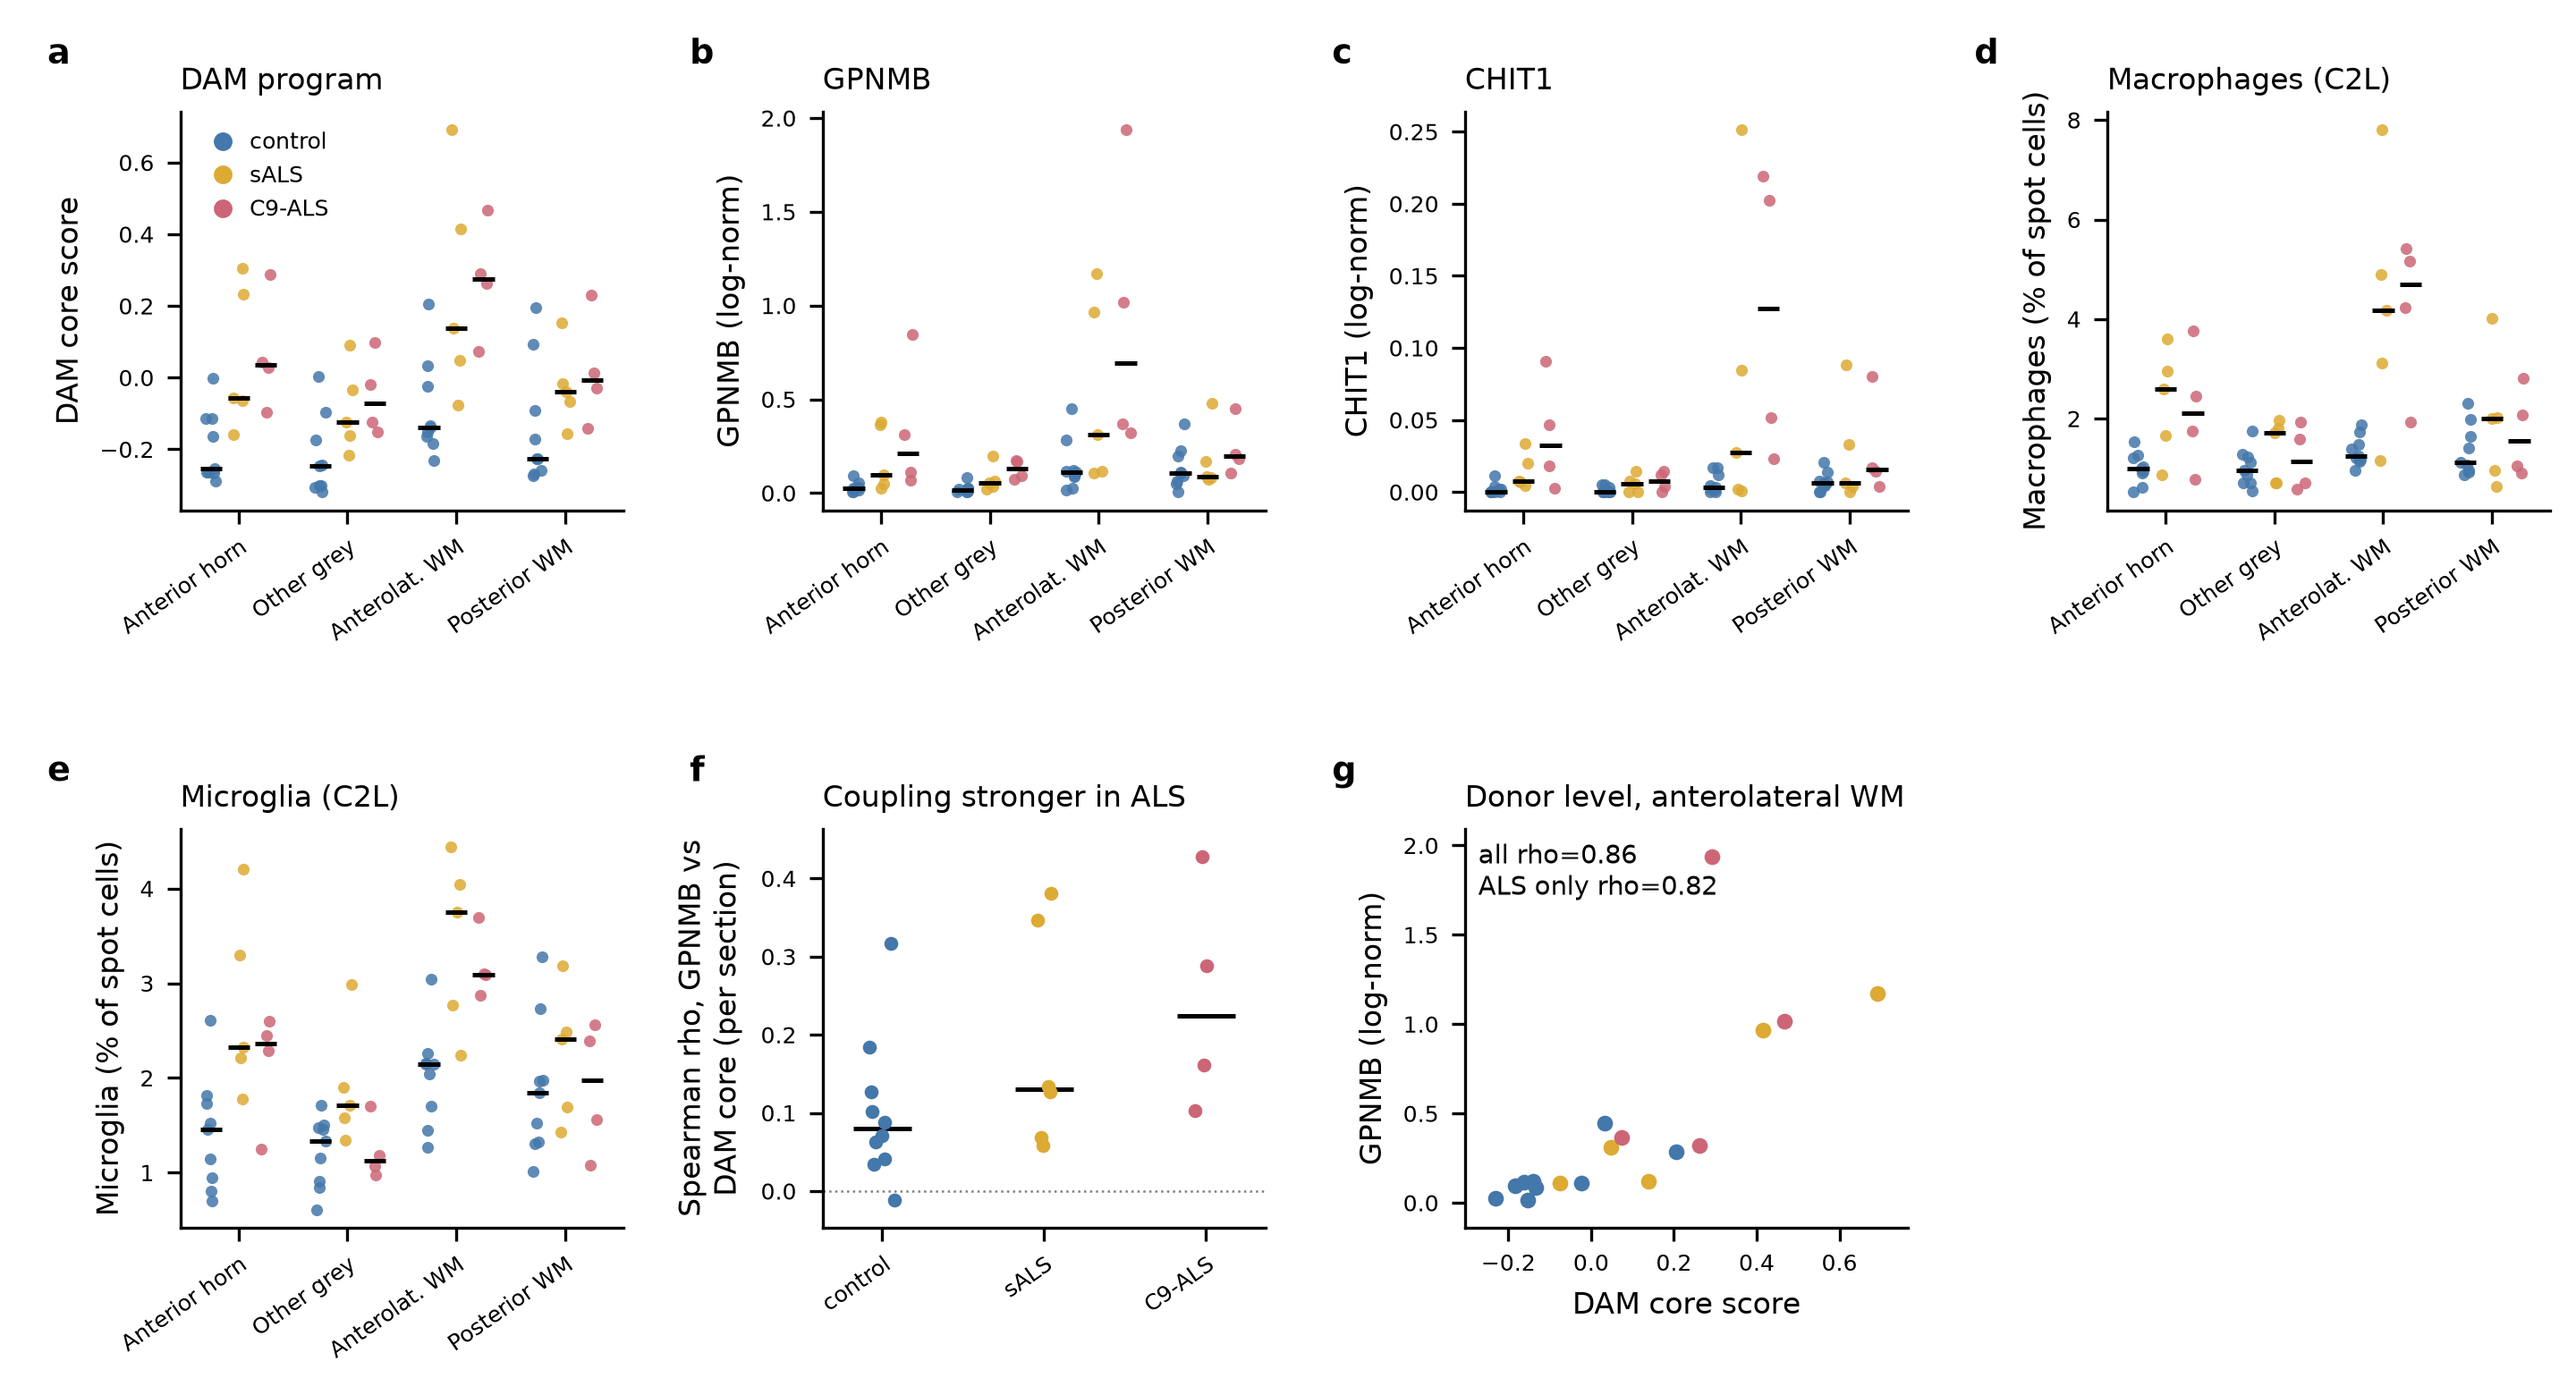
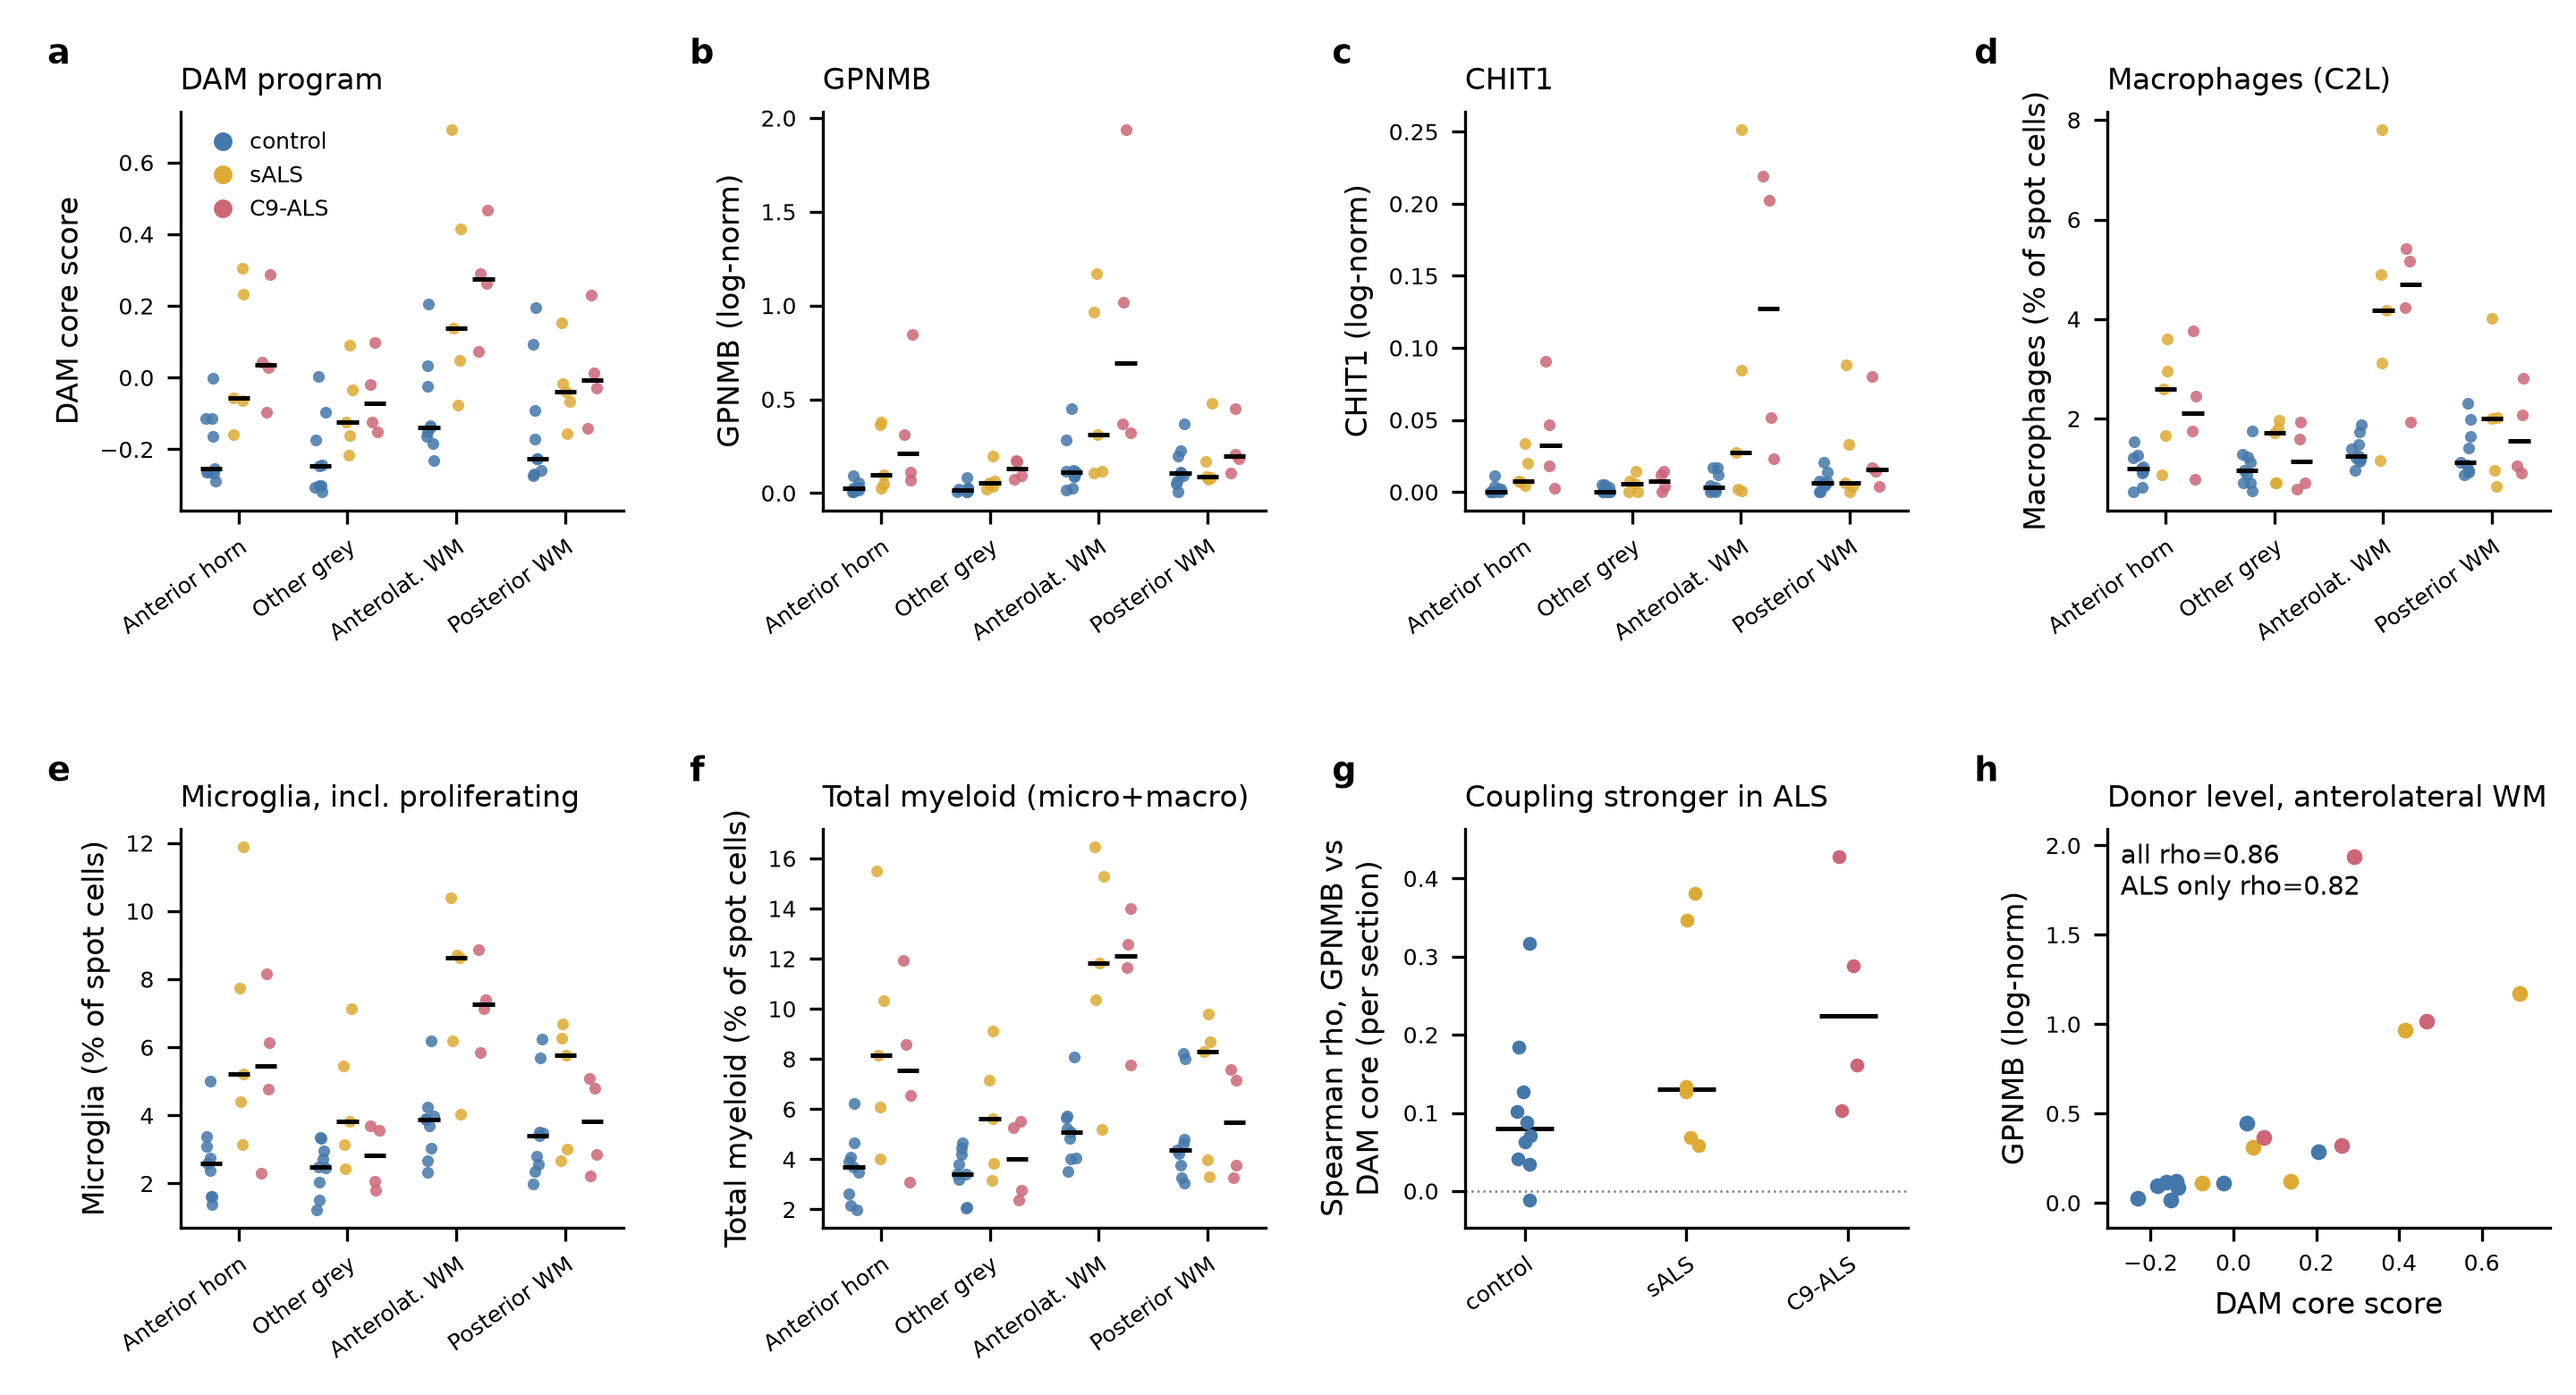
Stage 18 correction: microglia panel had omitted ProliferatingMicroglia (>half the microglial compartment); add total-myeloid panel for comparability with bulk deconvolution

diff --git a/code/analysis/18_spatial_DAM_GPNMB_CHIT1.py b/code/analysis/18_spatial_DAM_GPNMB_CHIT1.py
@@ -60,10 +60,12 @@ z=(df[DAMCORE]-df[DAMCORE].mean())/df[DAMCORE].std(); df["DAM_core"]=z.mean(axis
 with h5py.File(FA,"r") as h:
     obs=h["obs"]; names=obs[obs.attrs["_index"]][:].astype(str)
     assert (names==df.spot.values).all()
-    df["anat"]=dec(obs["auth_manual"]); df["macro"]=obs["auth_norm_ct_Macrophages"][:]; df["micro"]=obs["auth_norm_ct_Microglia"][:]
+    df["anat"]=dec(obs["auth_manual"]); df["macro"]=obs["auth_norm_ct_Macrophages"][:]
+    df["micro"]=obs["auth_norm_ct_Microglia"][:]+obs["auth_norm_ct_ProliferatingMicroglia"][:]  # homeostatic + proliferating
+    df["myeloid"]=df["micro"]+df["macro"]
 
 # ---- donor x anatomy means + stats ----
-d2=df[df.anat.isin(ANAT)]; FEAT2=FEAT+["macro","micro"]
+d2=df[df.anat.isin(ANAT)]; FEAT2=FEAT+["macro","micro","myeloid"]
 dra=d2.groupby(["donor_id","condition","anat"],observed=True)[FEAT2].mean().reset_index()
 dra.to_csv(f"{TAB}/spatial_DAMcore_GPNMB_CHIT1_donor_region.csv",index=False)
 rows=[]
@@ -132,10 +134,10 @@ fig.savefig(f"{FIG}/spatial_DAM_GPNMB_CHIT1_maps.png",dpi=300); plt.close(fig)
 fig2,ax2=plt.subplots(2,4,figsize=(9.6,5.2)); fig2.subplots_adjust(left=0.07,right=0.99,top=0.92,bottom=0.12,hspace=0.8,wspace=0.45)
 off={"control":-0.25,"sALS":0,"C9-ALS":0.25}; rng=np.random.default_rng(0)
 YL={"DAM_core":"DAM core score","GPNMB":"GPNMB (log-norm)","CHIT1":"CHIT1 (log-norm)",
-    "macro":"Macrophages (% of spot cells)","micro":"Microglia (% of spot cells)"}
+    "macro":"Macrophages (% of spot cells)","micro":"Microglia (% of spot cells)","myeloid":"Total myeloid (% of spot cells)"}
 TT={"DAM_core":"DAM program","GPNMB":"GPNMB","CHIT1":"CHIT1",
-    "macro":"Macrophages (C2L)","micro":"Microglia (C2L)"}
-panels=["DAM_core","GPNMB","CHIT1","macro","micro"]
+    "macro":"Macrophages (C2L)","micro":"Microglia, incl. proliferating","myeloid":"Total myeloid (micro+macro)"}
+panels=["DAM_core","GPNMB","CHIT1","macro","micro","myeloid"]
 for k,f in enumerate(panels):
     ax=ax2.flat[k]
     for i,rg in enumerate(REG4):
@@ -148,7 +150,7 @@ for k,f in enumerate(panels):
     ax.set_ylabel(YL[f]); ax.set_title(TT[f],loc="left"); ax.margins(0.05)
 ax2.flat[0].legend(handles=[Line2D([0],[0],marker="o",lw=0,color=PAL[c],label=c,ms=4) for c in ORDER],
                    frameon=False,fontsize=6,loc="upper left",handletextpad=0.2)
-ax=ax2.flat[5]
+ax=ax2.flat[6]
 for i,c in enumerate(ORDER):
     v=ws[(ws.gene=="GPNMB")&(ws.condition==c)].rho.values
     ax.scatter(i+rng.uniform(-0.08,0.08,len(v)),v,s=14,color=PAL[c],linewidths=0,zorder=3)
@@ -156,7 +158,7 @@ for i,c in enumerate(ORDER):
 ax.axhline(0,color="grey",lw=0.6,ls=":"); ax.set_xticks(range(3))
 ax.set_xticklabels(ORDER,rotation=35,ha="right",rotation_mode="anchor",fontsize=6)
 ax.set_ylabel("Spearman rho, GPNMB vs\nDAM core (per section)"); ax.set_title("Coupling stronger in ALS",loc="left"); ax.margins(0.08)
-ax=ax2.flat[6]
+ax=ax2.flat[7]
 for c in ORDER:
     qq=q[q.condition==c]; ax.scatter(qq.DAM_core,qq.GPNMB,s=18,color=PAL[c],linewidths=0,zorder=3)
 r_all=stats.spearmanr(q.DAM_core,q.GPNMB)[0]
@@ -164,7 +166,6 @@ r_als=stats.spearmanr(q[q.condition!="control"].DAM_core,q[q.condition!="control
 ax.text(0.03,0.97,f"all rho={r_all:.2f}\nALS only rho={r_als:.2f}",transform=ax.transAxes,va="top",fontsize=7)
 ax.set_xlabel("DAM core score"); ax.set_ylabel("GPNMB (log-norm)")
 ax.set_title("Donor level, anterolateral WM",loc="left"); ax.margins(0.08)
-ax2.flat[7].axis("off")
-for a_,L in zip(ax2.flat[:7],"abcdefg"): a_.text(-0.3,1.1,L,transform=a_.transAxes,fontweight="bold",fontsize=9,va="bottom")
+for a_,L in zip(ax2.flat[:8],"abcdefgh"): a_.text(-0.3,1.1,L,transform=a_.transAxes,fontweight="bold",fontsize=9,va="bottom")
 fig2.savefig(f"{FIG}/spatial_DAM_GPNMB_CHIT1_quant.png",dpi=300); plt.close(fig2)
 print("stage 18 done")
